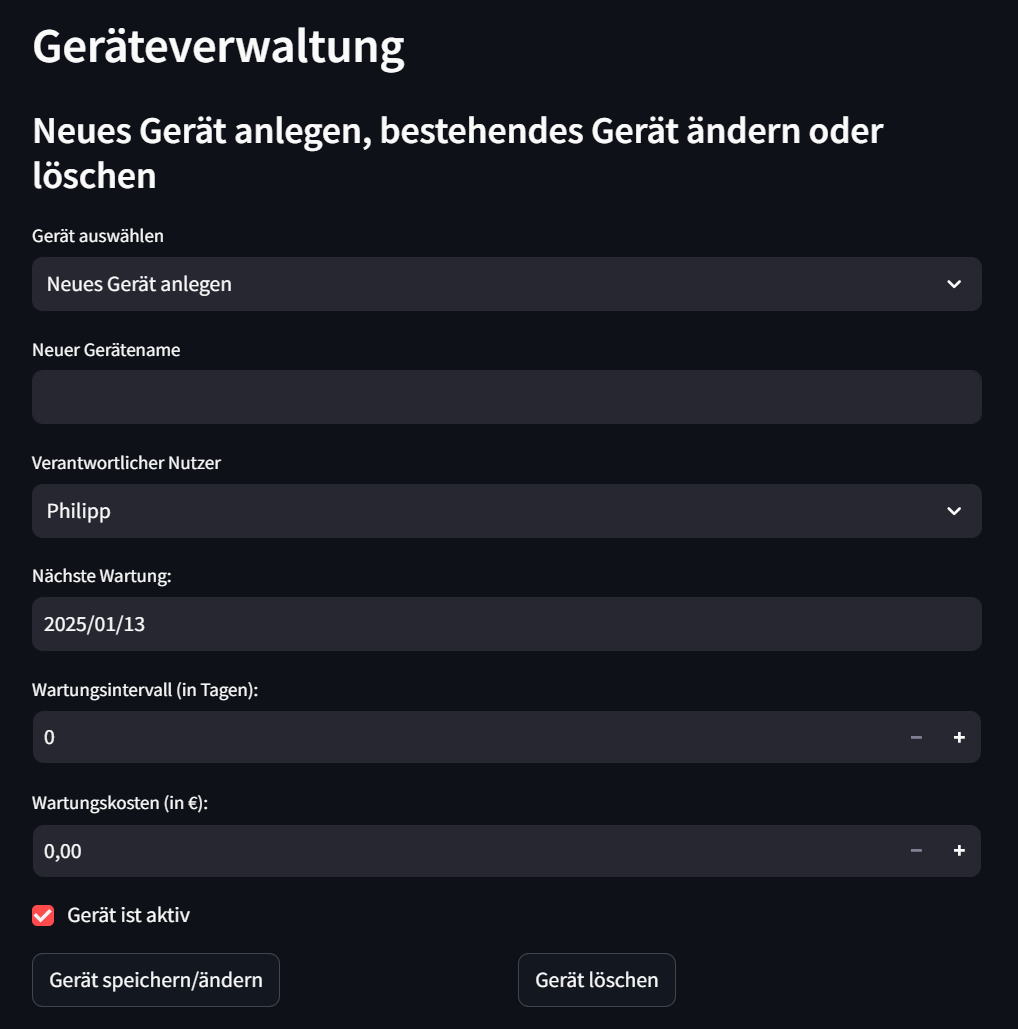
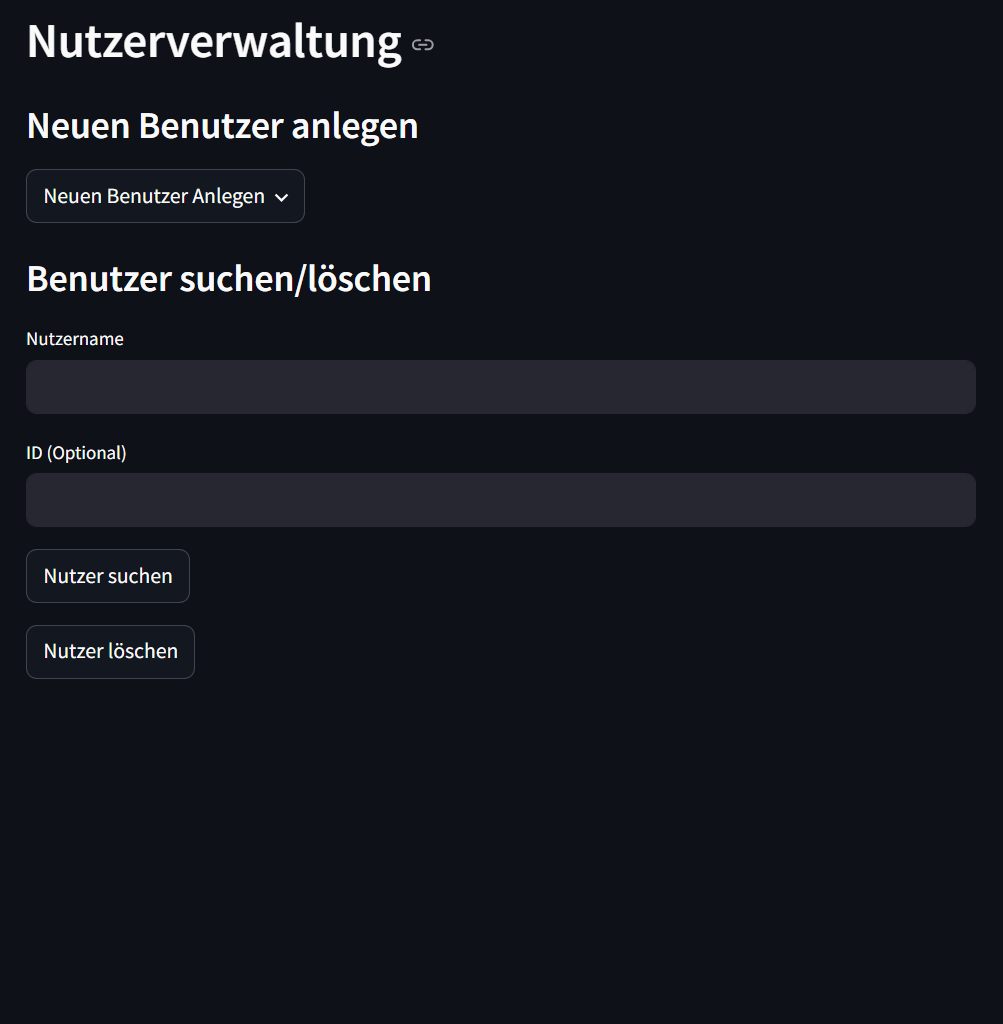
updated readme

diff --git a/README.md b/README.md
@@ -23,4 +23,4 @@ python -m streamlit run mockup_ui.py
 ## CaseStudy I - Abgabe II
 Die zweite Abgabe befasste sich mit dem Backend. Es wurde mit TinyDB eine funktionierende Geräte-Verwaltung und Nutzer-Verwaltung programmiert.
 
-<img src="images/02_Device_Management.png" alt="Screenshot von neuen Geräteverwaltung" width="45%"> <img src="images/02_User_Management.png" alt="Screenshot von neuen Nutzer-Verwaltung" width="45%">
+<img src="images/02_Device_Management.png" alt="Screenshot von neuen Geräteverwaltung" width="50%"> <img src="images/02_User_Management.png" alt="Screenshot von neuen Nutzer-Verwaltung" width="50%">
